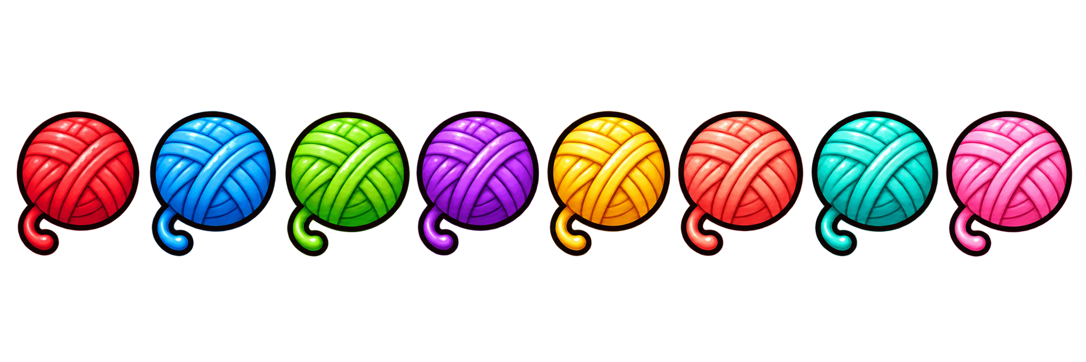
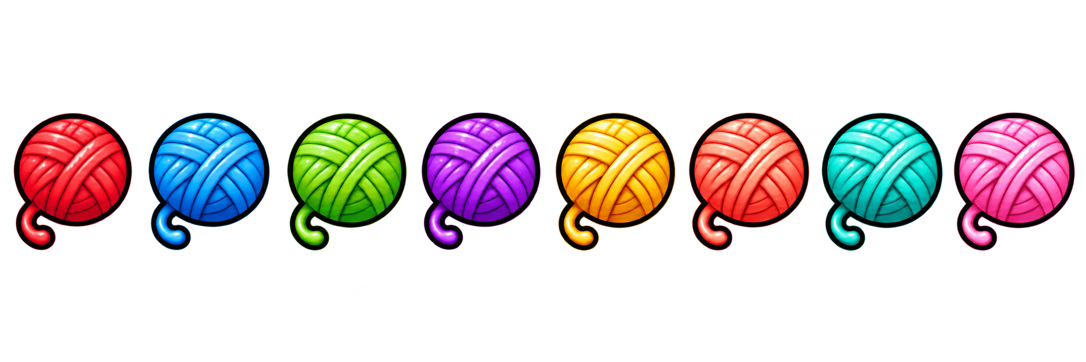
Space yarn sprites and speed up dance

Changed region(s): [[0.0, 0.3039, 1.0, 0.7293]]

diff --git a/web/src/animation-core.js b/web/src/animation-core.js
@@ -1,5 +1,6 @@
 export const DANCE_FRAME_COUNT = 4;
 export const DEFAULT_DANCE_DURATION_MS = 1600;
+export const DANCE_FRAME_INTERVAL_MS = 140;
 
 export function clamp(value, min, max) {
   const numeric = Number(value);
@@ -9,8 +10,8 @@ export function clamp(value, min, max) {
 
 export function danceFrameIndex(elapsedMs, durationMs = DEFAULT_DANCE_DURATION_MS) {
   const safeDuration = Math.max(1, Number(durationMs) || DEFAULT_DANCE_DURATION_MS);
-  const progress = clamp(Number(elapsedMs) / safeDuration, 0, 0.999999);
-  return Math.floor(progress * DANCE_FRAME_COUNT);
+  const elapsed = clamp(Number(elapsedMs), 0, safeDuration);
+  return Math.floor(elapsed / DANCE_FRAME_INTERVAL_MS) % DANCE_FRAME_COUNT;
 }
 
 export function computeLayout(width, height, catCount) {
